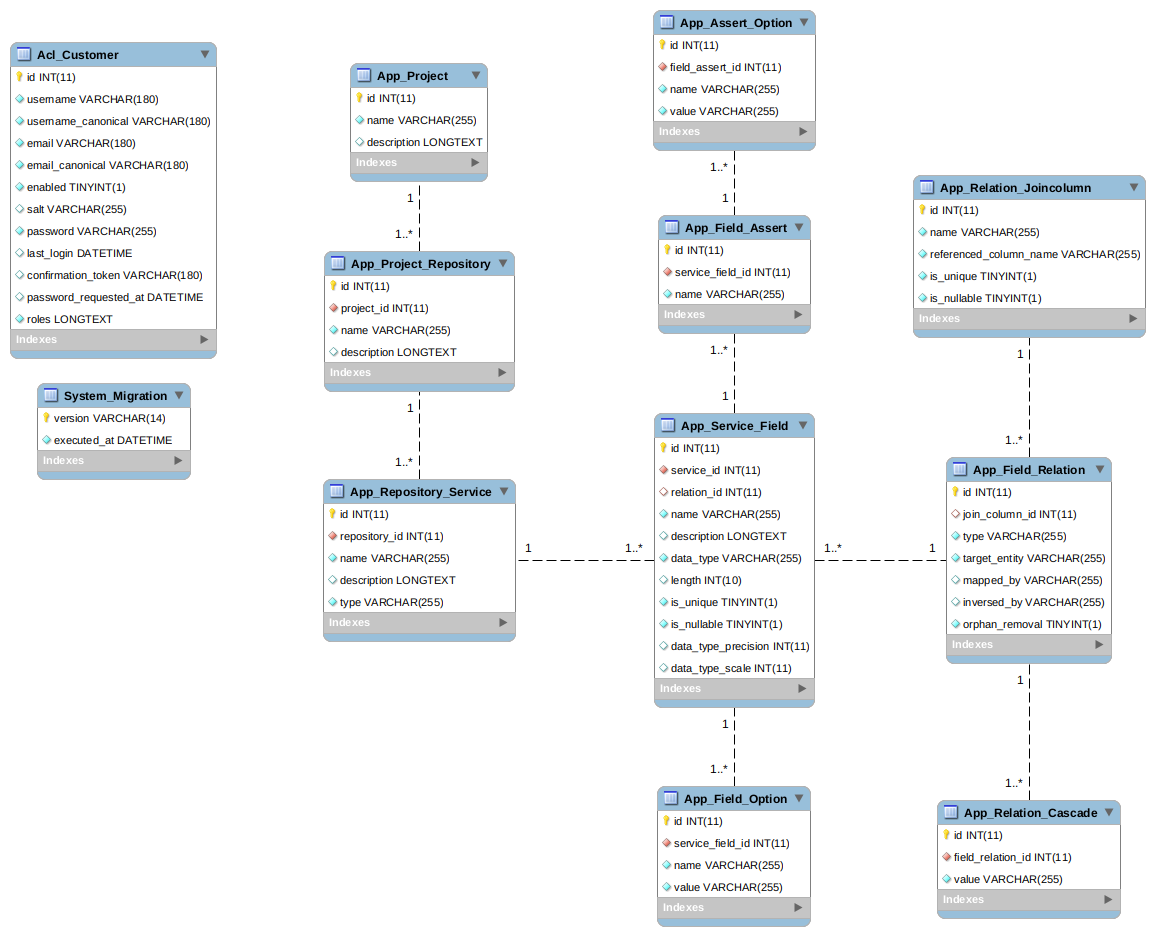
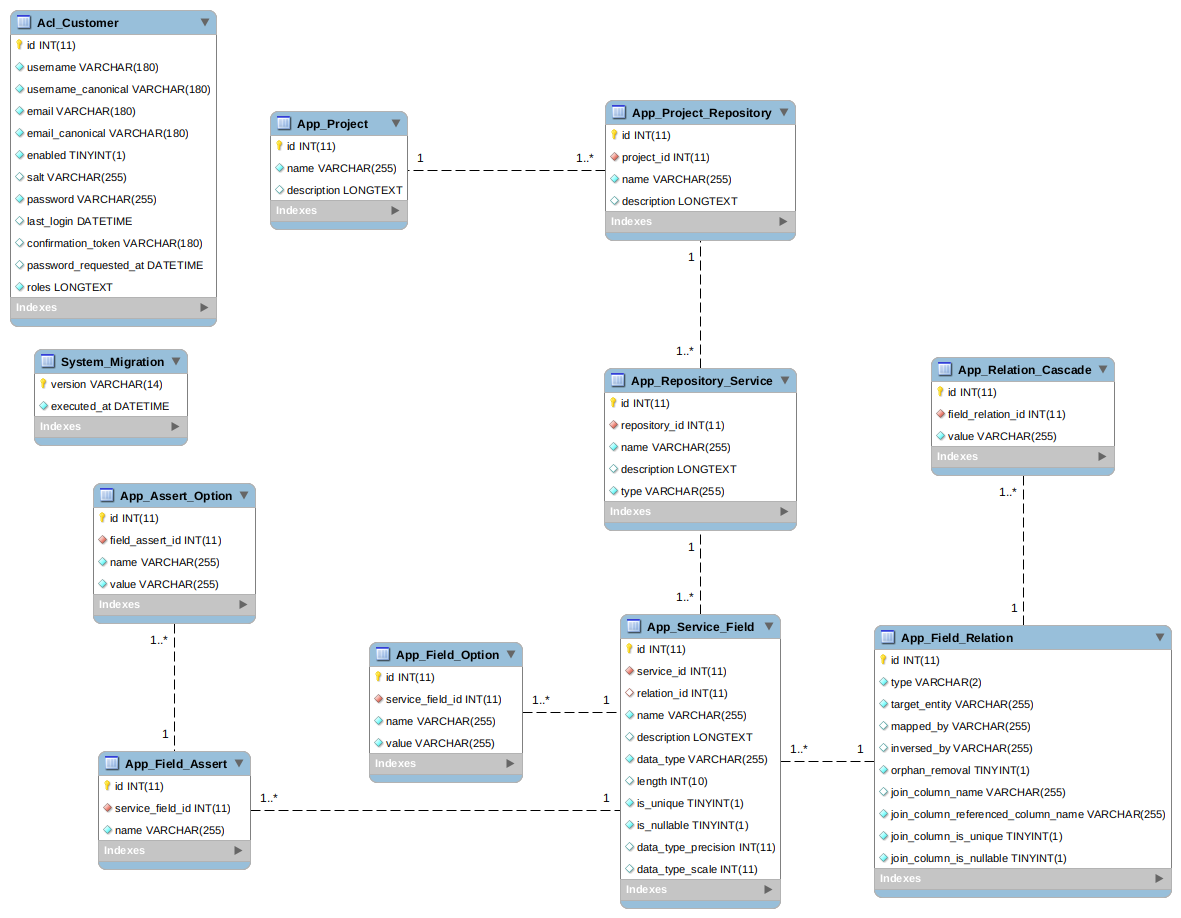
kicked JoinColumn table and added fields in FieldRelation

diff --git a/src/Migrations/Version20190506123909.php b/src/Migrations/Version20190506123909.php
@@ -10,7 +10,7 @@ use Doctrine\Migrations\AbstractMigration;
 /**
  * Auto-generated Migration: Please modify to your needs!
  */
-final class Version20190502160452 extends AbstractMigration
+final class Version20190506123909 extends AbstractMigration
 {
     public function getDescription() : string
     {
@@ -26,8 +26,7 @@ final class Version20190502160452 extends AbstractMigration
         $this->addSql('CREATE TABLE App_Project_Repository (id INT AUTO_INCREMENT NOT NULL, project_id INT NOT NULL, name VARCHAR(255) NOT NULL, description LONGTEXT DEFAULT NULL, INDEX IDX_BECDCEA4166D1F9C (project_id), PRIMARY KEY(id)) DEFAULT CHARACTER SET utf8mb4 COLLATE utf8mb4_unicode_ci ENGINE = InnoDB');
         $this->addSql('CREATE TABLE App_Project (id INT AUTO_INCREMENT NOT NULL, name VARCHAR(255) NOT NULL, description LONGTEXT DEFAULT NULL, PRIMARY KEY(id)) DEFAULT CHARACTER SET utf8mb4 COLLATE utf8mb4_unicode_ci ENGINE = InnoDB');
         $this->addSql('CREATE TABLE App_Assert_Option (id INT AUTO_INCREMENT NOT NULL, field_assert_id INT NOT NULL, name VARCHAR(255) NOT NULL, value VARCHAR(255) NOT NULL, INDEX IDX_1751E07A113B5DA9 (field_assert_id), PRIMARY KEY(id)) DEFAULT CHARACTER SET utf8mb4 COLLATE utf8mb4_unicode_ci ENGINE = InnoDB');
-        $this->addSql('CREATE TABLE App_Field_Relation (id INT AUTO_INCREMENT NOT NULL, join_column_id INT DEFAULT NULL, type VARCHAR(2) DEFAULT \'1n\' NOT NULL, target_entity VARCHAR(255) NOT NULL, mapped_by VARCHAR(255) DEFAULT NULL, inversed_by VARCHAR(255) DEFAULT NULL, orphan_removal TINYINT(1) DEFAULT \'0\' NOT NULL, UNIQUE INDEX UNIQ_21FF0C41138F07 (join_column_id), PRIMARY KEY(id)) DEFAULT CHARACTER SET utf8mb4 COLLATE utf8mb4_unicode_ci ENGINE = InnoDB');
-        $this->addSql('CREATE TABLE App_Relation_Joincolumn (id INT AUTO_INCREMENT NOT NULL, name VARCHAR(255) NOT NULL, referenced_column_name VARCHAR(255) DEFAULT \'id\' NOT NULL, is_unique TINYINT(1) DEFAULT \'0\' NOT NULL, is_nullable TINYINT(1) DEFAULT \'1\' NOT NULL, PRIMARY KEY(id)) DEFAULT CHARACTER SET utf8mb4 COLLATE utf8mb4_unicode_ci ENGINE = InnoDB');
+        $this->addSql('CREATE TABLE App_Field_Relation (id INT AUTO_INCREMENT NOT NULL, type VARCHAR(2) DEFAULT \'1n\' NOT NULL, target_entity VARCHAR(255) NOT NULL, mapped_by VARCHAR(255) DEFAULT NULL, inversed_by VARCHAR(255) DEFAULT NULL, orphan_removal TINYINT(1) DEFAULT \'0\' NOT NULL, join_column_name VARCHAR(255) DEFAULT NULL, join_column_referenced_column_name VARCHAR(255) DEFAULT \'id\' NOT NULL, join_column_is_unique TINYINT(1) DEFAULT \'0\' NOT NULL, join_column_is_nullable TINYINT(1) DEFAULT \'1\' NOT NULL, PRIMARY KEY(id)) DEFAULT CHARACTER SET utf8mb4 COLLATE utf8mb4_unicode_ci ENGINE = InnoDB');
         $this->addSql('CREATE TABLE App_Relation_Cascade (id INT AUTO_INCREMENT NOT NULL, field_relation_id INT NOT NULL, value VARCHAR(255) NOT NULL, INDEX IDX_491CEC52F7E1228C (field_relation_id), PRIMARY KEY(id)) DEFAULT CHARACTER SET utf8mb4 COLLATE utf8mb4_unicode_ci ENGINE = InnoDB');
         $this->addSql('CREATE TABLE App_Field_Option (id INT AUTO_INCREMENT NOT NULL, service_field_id INT NOT NULL, name VARCHAR(255) NOT NULL, value VARCHAR(255) NOT NULL, INDEX IDX_BAEE3380BD415C8D (service_field_id), PRIMARY KEY(id)) DEFAULT CHARACTER SET utf8mb4 COLLATE utf8mb4_unicode_ci ENGINE = InnoDB');
         $this->addSql('CREATE TABLE App_Field_Assert (id INT AUTO_INCREMENT NOT NULL, service_field_id INT NOT NULL, name VARCHAR(255) NOT NULL, INDEX IDX_51877C9BBD415C8D (service_field_id), PRIMARY KEY(id)) DEFAULT CHARACTER SET utf8mb4 COLLATE utf8mb4_unicode_ci ENGINE = InnoDB');
@@ -36,7 +35,6 @@ final class Version20190502160452 extends AbstractMigration
         $this->addSql('ALTER TABLE App_Repository_Service ADD CONSTRAINT FK_3A0A7CC450C9D4F7 FOREIGN KEY (repository_id) REFERENCES App_Project_Repository (id)');
         $this->addSql('ALTER TABLE App_Project_Repository ADD CONSTRAINT FK_BECDCEA4166D1F9C FOREIGN KEY (project_id) REFERENCES App_Project (id)');
         $this->addSql('ALTER TABLE App_Assert_Option ADD CONSTRAINT FK_1751E07A113B5DA9 FOREIGN KEY (field_assert_id) REFERENCES App_Field_Assert (id)');
-        $this->addSql('ALTER TABLE App_Field_Relation ADD CONSTRAINT FK_21FF0C41138F07 FOREIGN KEY (join_column_id) REFERENCES App_Relation_Joincolumn (id)');
         $this->addSql('ALTER TABLE App_Relation_Cascade ADD CONSTRAINT FK_491CEC52F7E1228C FOREIGN KEY (field_relation_id) REFERENCES App_Field_Relation (id)');
         $this->addSql('ALTER TABLE App_Field_Option ADD CONSTRAINT FK_BAEE3380BD415C8D FOREIGN KEY (service_field_id) REFERENCES App_Service_Field (id)');
         $this->addSql('ALTER TABLE App_Field_Assert ADD CONSTRAINT FK_51877C9BBD415C8D FOREIGN KEY (service_field_id) REFERENCES App_Service_Field (id)');
@@ -54,7 +52,6 @@ final class Version20190502160452 extends AbstractMigration
         $this->addSql('ALTER TABLE App_Project_Repository DROP FOREIGN KEY FK_BECDCEA4166D1F9C');
         $this->addSql('ALTER TABLE App_Relation_Cascade DROP FOREIGN KEY FK_491CEC52F7E1228C');
         $this->addSql('ALTER TABLE App_Service_Field DROP FOREIGN KEY FK_34E6C3183256915B');
-        $this->addSql('ALTER TABLE App_Field_Relation DROP FOREIGN KEY FK_21FF0C41138F07');
         $this->addSql('ALTER TABLE App_Assert_Option DROP FOREIGN KEY FK_1751E07A113B5DA9');
         $this->addSql('ALTER TABLE App_Field_Option DROP FOREIGN KEY FK_BAEE3380BD415C8D');
         $this->addSql('ALTER TABLE App_Field_Assert DROP FOREIGN KEY FK_51877C9BBD415C8D');
@@ -63,7 +60,6 @@ final class Version20190502160452 extends AbstractMigration
         $this->addSql('DROP TABLE App_Project');
         $this->addSql('DROP TABLE App_Assert_Option');
         $this->addSql('DROP TABLE App_Field_Relation');
-        $this->addSql('DROP TABLE App_Relation_Joincolumn');
         $this->addSql('DROP TABLE App_Relation_Cascade');
         $this->addSql('DROP TABLE App_Field_Option');
         $this->addSql('DROP TABLE App_Field_Assert');

diff --git a/src/Entity/FieldRelation.php b/src/Entity/FieldRelation.php
@@ -27,6 +27,9 @@ use InvalidArgumentException;
  */
 class FieldRelation
 {
+    /**
+     * You can map 1 to 1, 1 to n and n to 1 relationships
+     */
     const TYPE_ONE_TO_ONE  = '1';
     const TYPE_ONE_TO_MANY = '1n';
     const TYPE_MANY_TO_ONE = 'n1';
@@ -45,8 +48,6 @@ class FieldRelation
 
     /**
      * @ORM\Column(type="string", length=255)
-     *
-     * @todo maybe we should map this to an object instead of a string
      */
     private $targetEntity;
 
@@ -66,6 +67,26 @@ class FieldRelation
     private $orphanRemoval = false;
 
     /**
+     * @ORM\Column(type="string", length=255, nullable=true)
+     */
+    private $joinColumnName;
+
+    /**
+     * @ORM\Column(type="string", length=255, options={"default" : "id"})
+     */
+    private $joinColumnReferencedColumnName = 'id';
+
+    /**
+     * @ORM\Column(type="boolean", options={"default" : false})
+     */
+    private $joinColumnIsUnique = false;
+
+    /**
+     * @ORM\Column(type="boolean", options={"default" : true})
+     */
+    private $joinColumnIsNullable = true;
+
+    /**
      * @ORM\OneToOne(targetEntity="App\Entity\ServiceField", mappedBy="relation", cascade={"persist", "remove"})
      */
     private $serviceField;
@@ -74,15 +95,6 @@ class FieldRelation
      * @ORM\OneToMany(targetEntity="App\Entity\RelationCascade", mappedBy="fieldRelation", orphanRemoval=true)
      */
     private $cascades;
-
-    /**
-     * @ORM\OneToOne(
-     *     targetEntity="App\Entity\RelationJoincolumn",
-     *     inversedBy="fieldRelation",
-     *     cascade={"persist", "remove"}
-     * )
-     */
-    private $joinColumn;
 
     public function __construct()
     {
@@ -176,6 +188,54 @@ class FieldRelation
         return $this;
     }
 
+    public function getJoinColumnName(): ?string
+    {
+        return $this->joinColumnName;
+    }
+
+    public function setJoinColumnName(?string $joinColumnName): self
+    {
+        $this->joinColumnName = $joinColumnName;
+
+        return $this;
+    }
+
+    public function getJoinColumnReferencedColumnName(): ?string
+    {
+        return $this->joinColumnReferencedColumnName;
+    }
+
+    public function setJoinColumnReferencedColumnName(string $joinColumnReferencedColumnName): self
+    {
+        $this->joinColumnReferencedColumnName = $joinColumnReferencedColumnName;
+
+        return $this;
+    }
+
+    public function getJoinColumnIsUnique(): ?bool
+    {
+        return $this->joinColumnIsUnique;
+    }
+
+    public function setJoinColumnIsUnique(bool $joinColumnIsUnique): self
+    {
+        $this->joinColumnIsUnique = $joinColumnIsUnique;
+
+        return $this;
+    }
+
+    public function getJoinColumnIsNullable(): ?bool
+    {
+        return $this->joinColumnIsNullable;
+    }
+
+    public function setJoinColumnIsNullable(bool $joinColumnIsNullable): self
+    {
+        $this->joinColumnIsNullable = $joinColumnIsNullable;
+
+        return $this;
+    }
+
     /**
      * @return Collection|RelationCascade[]
      */
@@ -203,18 +263,6 @@ class FieldRelation
                 $cascade->setFieldRelation(null);
             }
         }
-
-        return $this;
-    }
-
-    public function getJoinColumn(): ?RelationJoincolumn
-    {
-        return $this->joinColumn;
-    }
-
-    public function setJoinColumn(?RelationJoincolumn $joinColumn): self
-    {
-        $this->joinColumn = $joinColumn;
 
         return $this;
     }

diff --git a/tests/Entity/FieldRelationTest.php b/tests/Entity/FieldRelationTest.php
@@ -114,6 +114,50 @@ class FieldRelationTest extends TestCase
         $this->assertEquals($serviceField, $this->object->getServiceField());
     }
 
+    public function testJoinColumnIsUniqueGettable()
+    {
+        $this->assertFalse($this->object->getJoinColumnIsUnique());
+    }
+
+    public function testJoinColumnIsUniqueSettable()
+    {
+        $this->object->setJoinColumnIsUnique(true);
+        $this->assertTrue($this->object->getJoinColumnIsUnique());
+    }
+
+    public function testJoinColumnIsNullableGettable()
+    {
+        $this->assertTrue($this->object->getJoinColumnIsNullable());
+    }
+
+    public function testJoinColumnIsNullableSettable()
+    {
+        $this->object->setJoinColumnIsNullable(false);
+        $this->assertFalse($this->object->getJoinColumnIsNullable());
+    }
+
+    public function testJoinColumnNameGettable()
+    {
+        $this->assertNull($this->object->getJoinColumnName());
+    }
+
+    public function testJoinColumnNameSettable()
+    {
+        $this->object->setJoinColumnName('name');
+        $this->assertEquals('name', $this->object->getJoinColumnName());
+    }
+
+    public function testJoinColumnReferencedColumnNameGettable()
+    {
+        $this->assertEquals('id', $this->object->getJoinColumnReferencedColumnName());
+    }
+
+    public function testJoinColumnReferencedColumnNameSettable()
+    {
+        $this->object->setJoinColumnReferencedColumnName('name');
+        $this->assertEquals('name', $this->object->getJoinColumnReferencedColumnName());
+    }
+
     public function testCascadesGettable()
     {
         $this->assertCount(0, $this->object->getCascades());
@@ -131,17 +175,5 @@ class FieldRelationTest extends TestCase
         $this->object->addCascade($cascade);
         $this->object->removeCascade($cascade);
         $this->assertCount(0, $this->object->getCascades());
-    }
-
-    public function testJoincolumnGettable()
-    {
-        $this->assertNull($this->object->getJoinColumn());
-    }
-
-    public function testJoinColumnSettable()
-    {
-        $joinColumn = new RelationJoincolumn();
-        $this->object->setJoinColumn($joinColumn);
-        $this->assertEquals($joinColumn, $this->object->getJoinColumn());
     }
 }

diff --git a/src/Entity/RelationCascade.php b/src/Entity/RelationCascade.php
@@ -13,6 +13,7 @@ namespace App\Entity;
 
 use Doctrine\ORM\Mapping as ORM;
 use ApiPlatform\Core\Annotation\ApiResource;
+use InvalidArgumentException;
 
 /**
  * This maps cascade options of field relations.
@@ -23,6 +24,18 @@ use ApiPlatform\Core\Annotation\ApiResource;
  */
 class RelationCascade
 {
+    /**
+     * Valid cascade operations
+     */
+    const CASCADE_OPERATIONS = array(
+        'persist',
+        'remove',
+        'merge',
+        'detach',
+        'refresh',
+        'all'
+    );
+
     /**
      * @ORM\Id()
      * @ORM\GeneratedValue()
@@ -53,6 +66,10 @@ class RelationCascade
 
     public function setValue(string $value): self
     {
+        if (!in_array($value, self::CASCADE_OPERATIONS)) {
+            throw new InvalidArgumentException('NIL');
+        }
+
         $this->value = $value;
 
         return $this;

diff --git a/tests/Entity/RelationCascadeTest.php b/tests/Entity/RelationCascadeTest.php
@@ -13,7 +13,6 @@ namespace App\Tests\Entity;
 
 use App\Entity\FieldRelation;
 use App\Entity\RelationCascade;
-use App\Entity\RelationJoincolumn;
 use PHPUnit\Framework\TestCase;
 
 /**
@@ -48,6 +47,12 @@ class RelationCascadeTest extends TestCase
     {
         $this->object->setValue('persist');
         $this->assertEquals('persist', $this->object->getValue());
+    }
+
+    public function testInvalidValueRaisesException()
+    {
+        $this->expectException(\InvalidArgumentException::class);
+        $this->object->setValue('NIL');
     }
 
     public function testFieldRelationGettable()
